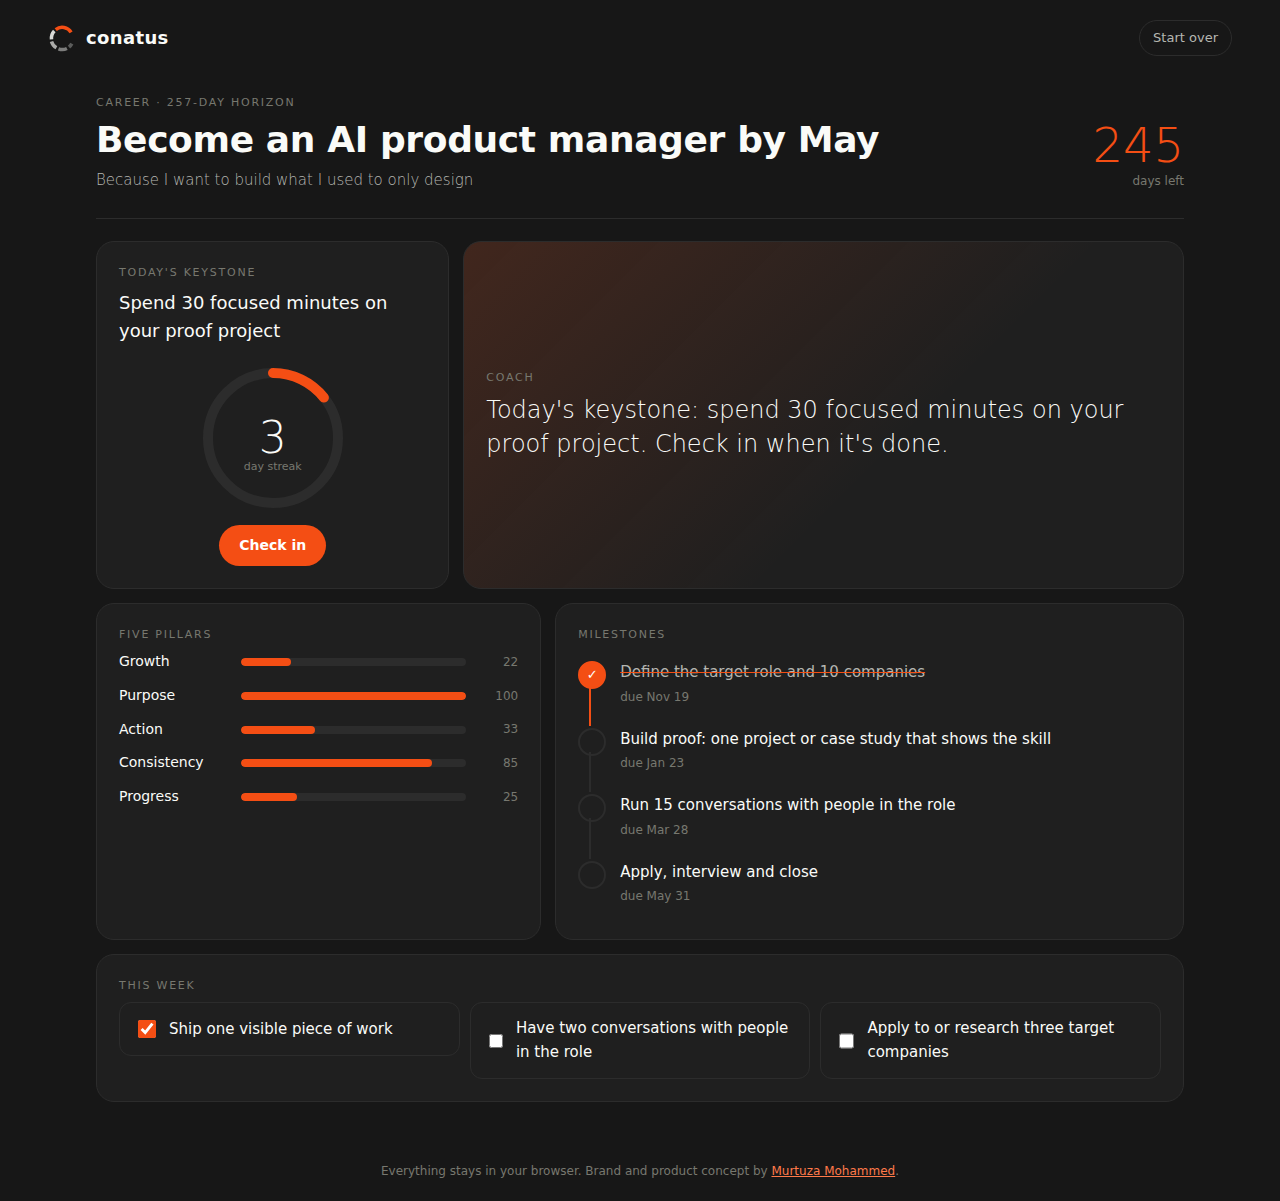
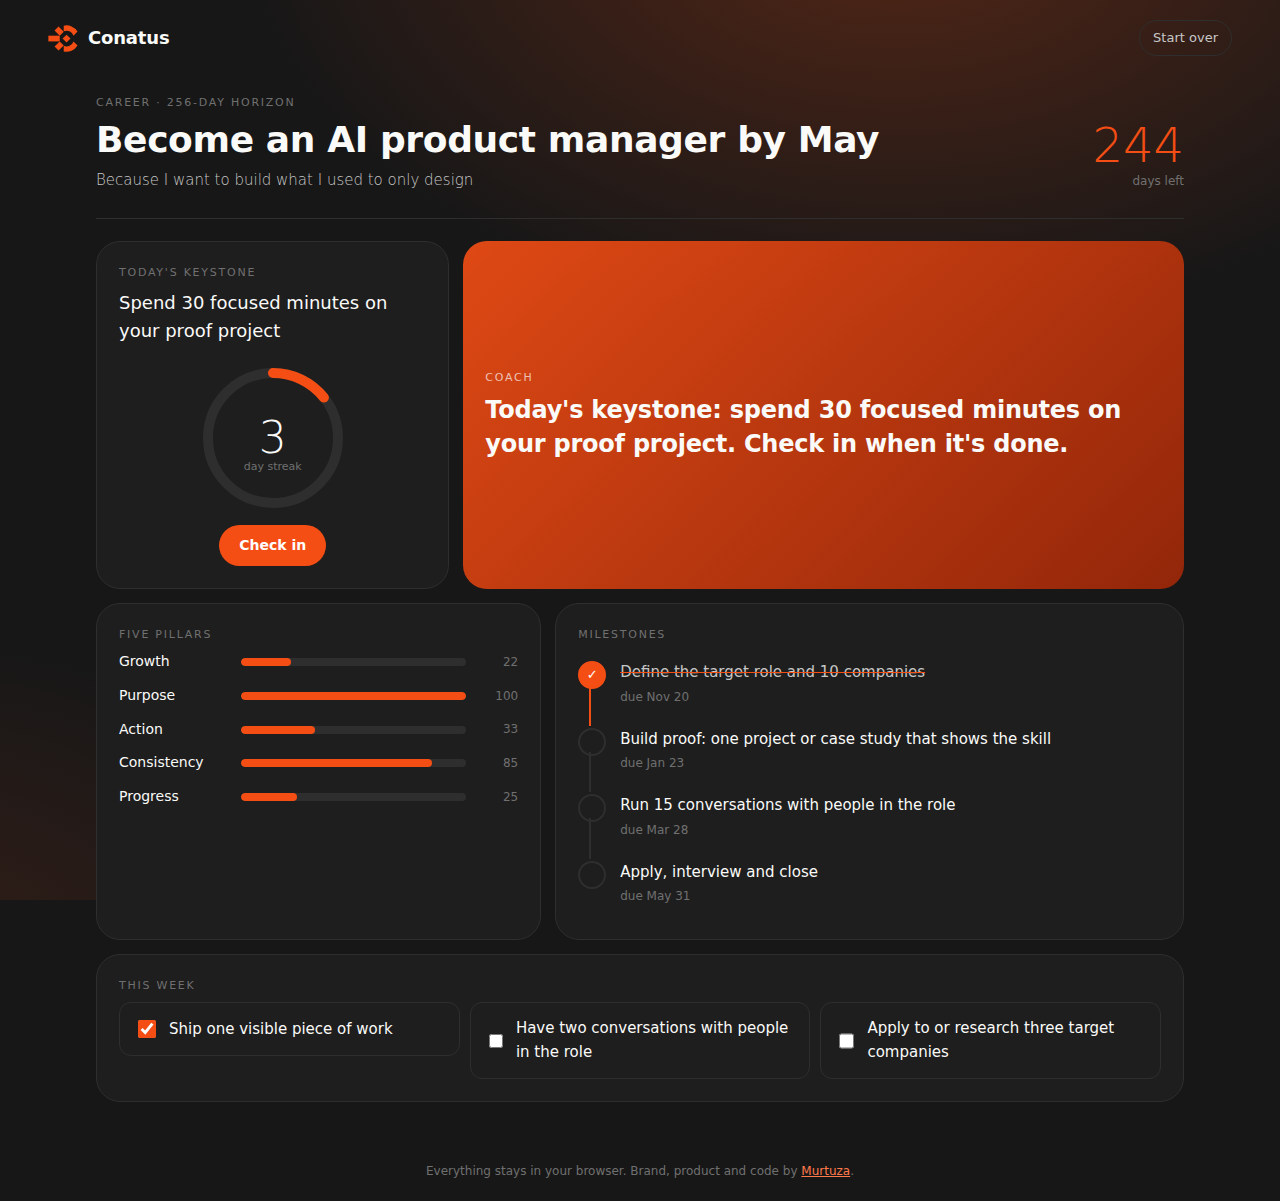
Conatus logomark and palette from the brand identity; credit as Murtuza
Claude-Session: https://claude.ai/code/session_01V1gFiQMVHBLNbgjmJzyciJ

diff --git a/index.html b/index.html
@@ -6,19 +6,20 @@
 <title>Conatus · become who you are meant to be</title>
 <meta name="description" content="An AI personal growth companion that turns intention into a chain of purpose, milestones, weekly actions and one daily habit.">
 <link rel="preconnect" href="https://fonts.googleapis.com">
-<link href="https://fonts.googleapis.com/css2?family=Sora:wght@300;400;600;700&display=swap" rel="stylesheet">
+<link href="https://fonts.googleapis.com/css2?family=Sora:wght@300;400;500;600;700&display=swap" rel="stylesheet">
 <link rel="stylesheet" href="style.css">
 </head>
 <body>
 <header class="top">
-  <a class="brand" href="#" id="home"><svg viewBox="0 0 40 40" width="28" height="28" aria-hidden="true"><g fill="none" stroke-width="5" stroke-linecap="butt"><path d="M33 12 A15 15 0 0 0 11 8" stroke="#F44E14"/><path d="M9 10 A15 15 0 0 0 5 22" stroke="#FAFBF8" opacity=".85"/><path d="M5 25 A15 15 0 0 0 12 34" stroke="#FAFBF8" opacity=".65"/><path d="M15 35.5 A15 15 0 0 0 27 35" stroke="#FAFBF8" opacity=".45"/><path d="M30 33 A15 15 0 0 0 34 28" stroke="#FAFBF8" opacity=".3"/></g></svg><b>conatus</b></a>
+  <a class="brand" href="#" id="home"><svg viewBox="570 210 660 590" width="30" height="27" aria-hidden="true"><g fill="#F44E14"><path d="M916 222 A286 286 0 0 1 1220 352 L1130 443 A161 161 0 0 0 916 345 Z"/><path d="M916 790 A286 286 0 0 0 1220 660 L1130 569 A161 161 0 0 1 916 667 Z"/><path d="M978 420 L1065 506 L978 593 L891 506 Z"/><path d="M803 243 L916 355 L828 443 L715 330 Z"/><path d="M715 682 L803 769 L916 657 L828 569 Z"/><rect x="578" y="443" width="250" height="126"/></g></svg><b>Conatus</b></a>
   <button type="button" class="ghost" id="reset" hidden>Start over</button>
 </header>
 
 <main>
   <section class="onboard" id="onboard">
-    <p class="kicker">AI-powered personal growth</p>
+    <p class="kicker">AI-powered personal growth companion</p>
     <h1>Become the professional<br>you are <em>meant to be.</em></h1>
+    <p class="mantra" aria-live="polite"><span id="mantra">Keep moving. Keep becoming.</span></p>
     <form id="form" class="ask">
       <label for="goal">What do you want to become?</label>
       <input id="goal" required placeholder="I want to become an AI product manager in 6 months" autocomplete="off">
@@ -67,7 +68,7 @@
     </div>
   </section>
 </main>
-<footer class="foot">Everything stays in your browser. Brand and product concept by <a href="https://murtuzabuilds.com">Murtuza Mohammed</a>.</footer>
+<footer class="foot">Everything stays in your browser. Brand, product and code by <a href="https://murtuzabuilds.com">Murtuza</a>.</footer>
 <script type="module" src="app.js"></script>
 </body>
 </html>

diff --git a/style.css b/style.css
@@ -1,8 +1,8 @@
-:root{--bg:#171717;--panel:#1F1F1F;--line:#2C2C2C;--ink:#FAFBF8;--ink2:#B5B6B1;--ink3:#77786F;--or:#F44E14;--or2:#FF7A4A}
-*{box-sizing:border-box}body{margin:0;background:var(--bg);color:var(--ink);font:15px/1.55 Sora,system-ui,sans-serif;min-height:100vh;display:flex;flex-direction:column}
+:root{/* Conatus brand: Vivid Orange #F44E14 · Charcoal Black #171717 · Warm Off-White #FAFAF8 · Light Grey #C7C7C7 · Medium Grey #707070 · Sora */--bg:#171717;--panel:#1E1E1E;--line:#2E2E2E;--ink:#FAFAF8;--ink2:#C7C7C7;--ink3:#707070;--or:#F44E14;--or2:#FF7A4A}
+*{box-sizing:border-box}body{margin:0;background:radial-gradient(1100px 700px at 70% -10%,rgba(244,78,20,.28),transparent 60%),radial-gradient(900px 600px at -10% 110%,rgba(244,78,20,.14),transparent 60%),var(--bg);background-attachment:fixed;color:var(--ink);font:15px/1.55 Sora,system-ui,sans-serif;min-height:100vh;display:flex;flex-direction:column}
 a{color:var(--or2)}
 .top{display:flex;justify-content:space-between;align-items:center;padding:20px clamp(16px,4vw,48px)}
-.brand{display:flex;align-items:center;gap:10px;color:var(--ink);text-decoration:none}.brand b{font-weight:600;letter-spacing:.02em;font-size:18px}
+.brand{display:flex;align-items:center;gap:10px;color:var(--ink);text-decoration:none}.brand b{font-weight:600;letter-spacing:-.01em;font-size:18px}
 main{flex:1;width:100%;max-width:1120px;margin:0 auto;padding:0 16px 40px}
 .kicker{margin:0 0 8px;font-size:11px;letter-spacing:.16em;text-transform:uppercase;color:var(--ink3)}
 .onboard{max-width:720px;margin:6vh auto 0}
@@ -51,3 +51,12 @@ li.done b{color:var(--ink2);text-decoration:line-through;text-decoration-color:v
 .foot{text-align:center;color:var(--ink3);font-size:12px;padding:20px}
 @media (max-width:860px){.today,.coach,.chain,.ms,.wk{grid-column:span 12}.weekly{grid-template-columns:1fr}.goalbar{flex-direction:column;align-items:flex-start}.left{text-align:left}}
 @media (prefers-reduced-motion:reduce){*{transition:none!important}}
+
+.mantra{margin:-18px 0 30px;height:34px;font-size:24px;font-weight:600;letter-spacing:-.01em;color:var(--ink2)}
+.mantra span{display:inline-block;animation:mantra 4s ease infinite}
+@keyframes mantra{0%{opacity:0;transform:translateY(8px)}12%,82%{opacity:1;transform:none}100%{opacity:0;transform:translateY(-6px)}}
+.ask input{border-radius:999px;padding:15px 22px;background:rgba(250,250,248,.06)}
+.ask input:focus{background:rgba(250,250,248,.1)}
+.card{border-radius:24px}
+.coach{background:linear-gradient(135deg,rgba(244,78,20,.9),rgba(160,40,8,.9));border:0}
+.coach .kicker{color:rgba(250,250,248,.7)}.coach #nudge{font-weight:600;letter-spacing:-.01em}

diff --git a/app.js b/app.js
@@ -52,3 +52,7 @@ $('weekly').addEventListener('change', e => { const k = weekKey(today()), id = e
 $('reset').addEventListener('click', () => { S = null; save(null); render(); });
 $('home').addEventListener('click', e => e.preventDefault());
 render();
+
+/* campaign lines from the brand, cycling on the first screen */
+const MANTRAS = ['Keep moving. Keep becoming.', 'Every choice. A stronger you.', 'Quiet mind. Clear direction.', 'Progress begins from within.'];
+let mi = 0; setInterval(() => { const el = document.getElementById('mantra'); if (!el || document.getElementById('onboard').hidden) return; mi = (mi + 1) % MANTRAS.length; el.textContent = MANTRAS[mi]; el.style.animation = 'none'; void el.offsetWidth; el.style.animation = ''; }, 4000);

diff --git a/README.md b/README.md
@@ -63,8 +63,10 @@ On the first screen, "See it with 12 days of history" loads a realistic demo, in
 
 ## Brand
 
-Vivid Orange `#F44E14` on near-black `#171717`, off-white `#FAFBF8`, set in Sora. The logomark is a C made of five arcs, one per pillar, fading as the chain extends.
+The app uses the Conatus identity from the brand case study: **Vivid Orange** `#F44E14`, **Charcoal Black** `#171717`, **Warm Off-White** `#FAFAF8`, **Light Grey** `#C7C7C7` and **Medium Grey** `#707070`, set in **Sora**. The logomark is rebuilt as an SVG from its construction grid: a C formed by two arcs around a central diamond, with the forward bar and two diamonds reaching left, momentum out of a steady core. The first screen cycles the campaign lines: *Keep moving. Keep becoming.* · *Every choice. A stronger you.* · *Quiet mind. Clear direction.*
+
+![Conatus onboarding](docs/onboarding.png)
 
 ---
 
-Brand, product concept and code by [Murtuza Mohammed](https://murtuzabuilds.com). MIT licensed.
+Brand, product concept and code by [Murtuza](https://murtuzabuilds.com). MIT licensed.
